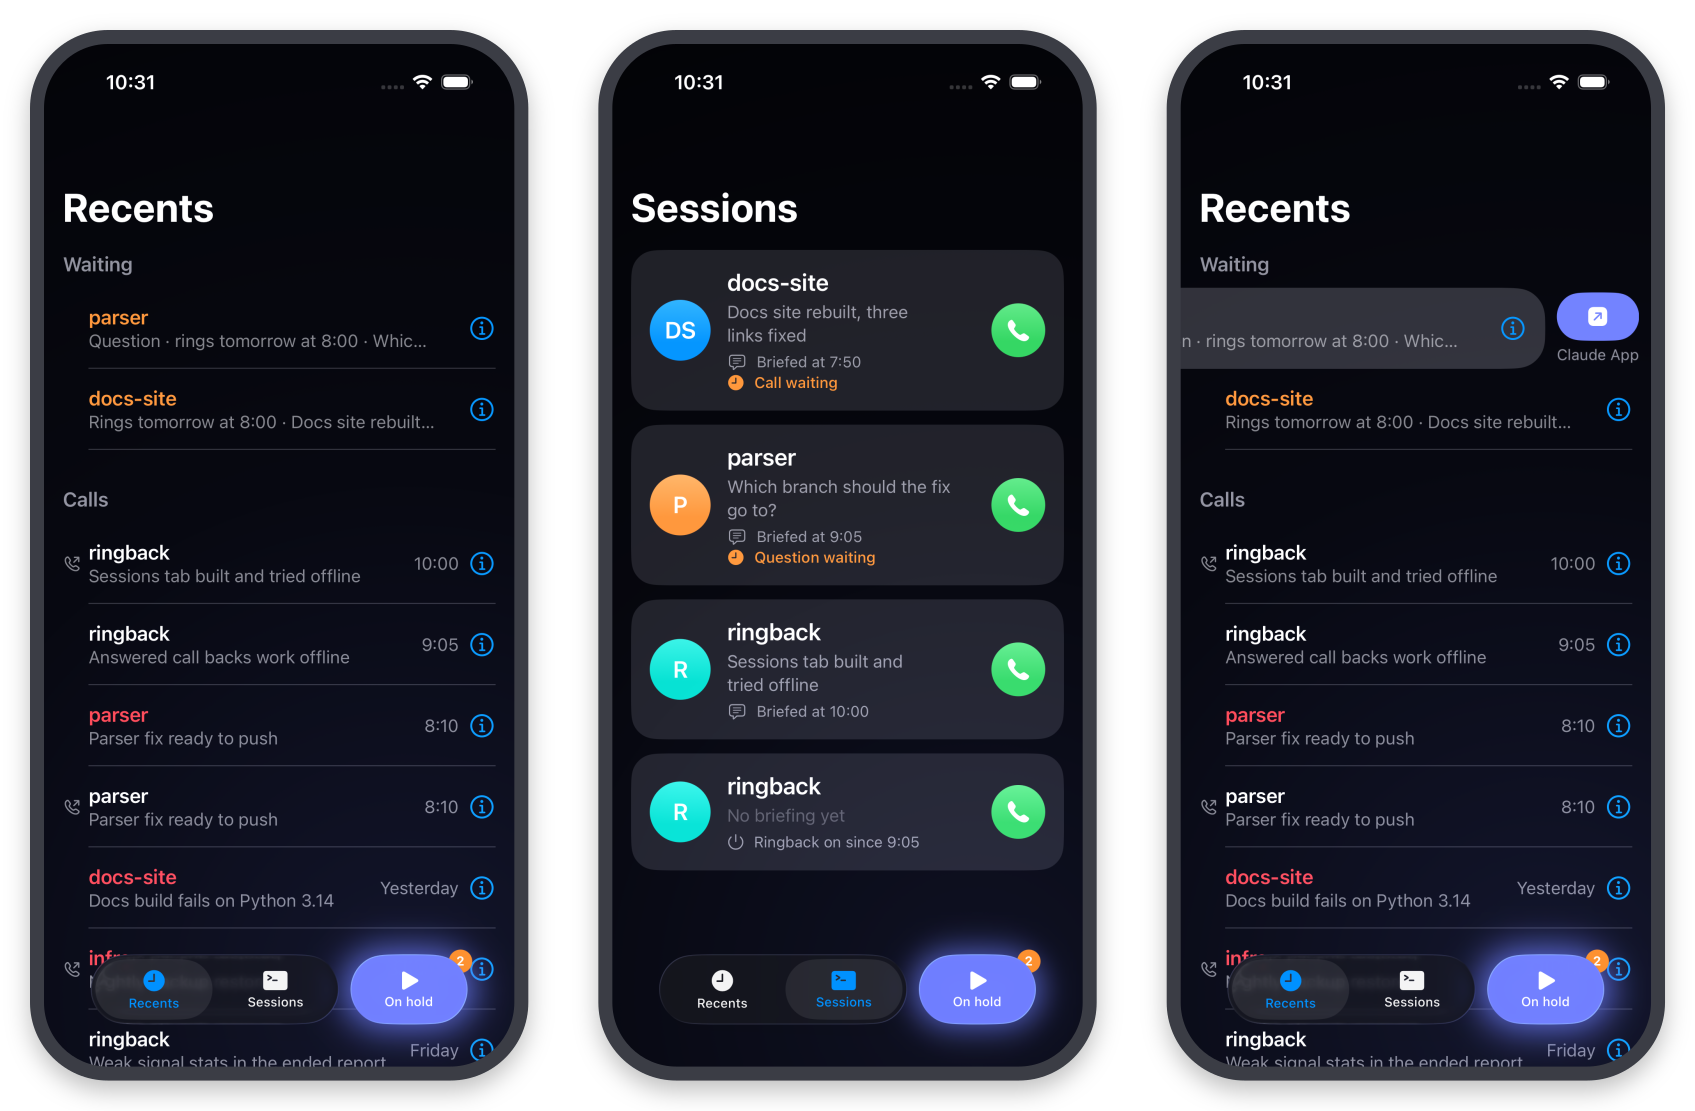
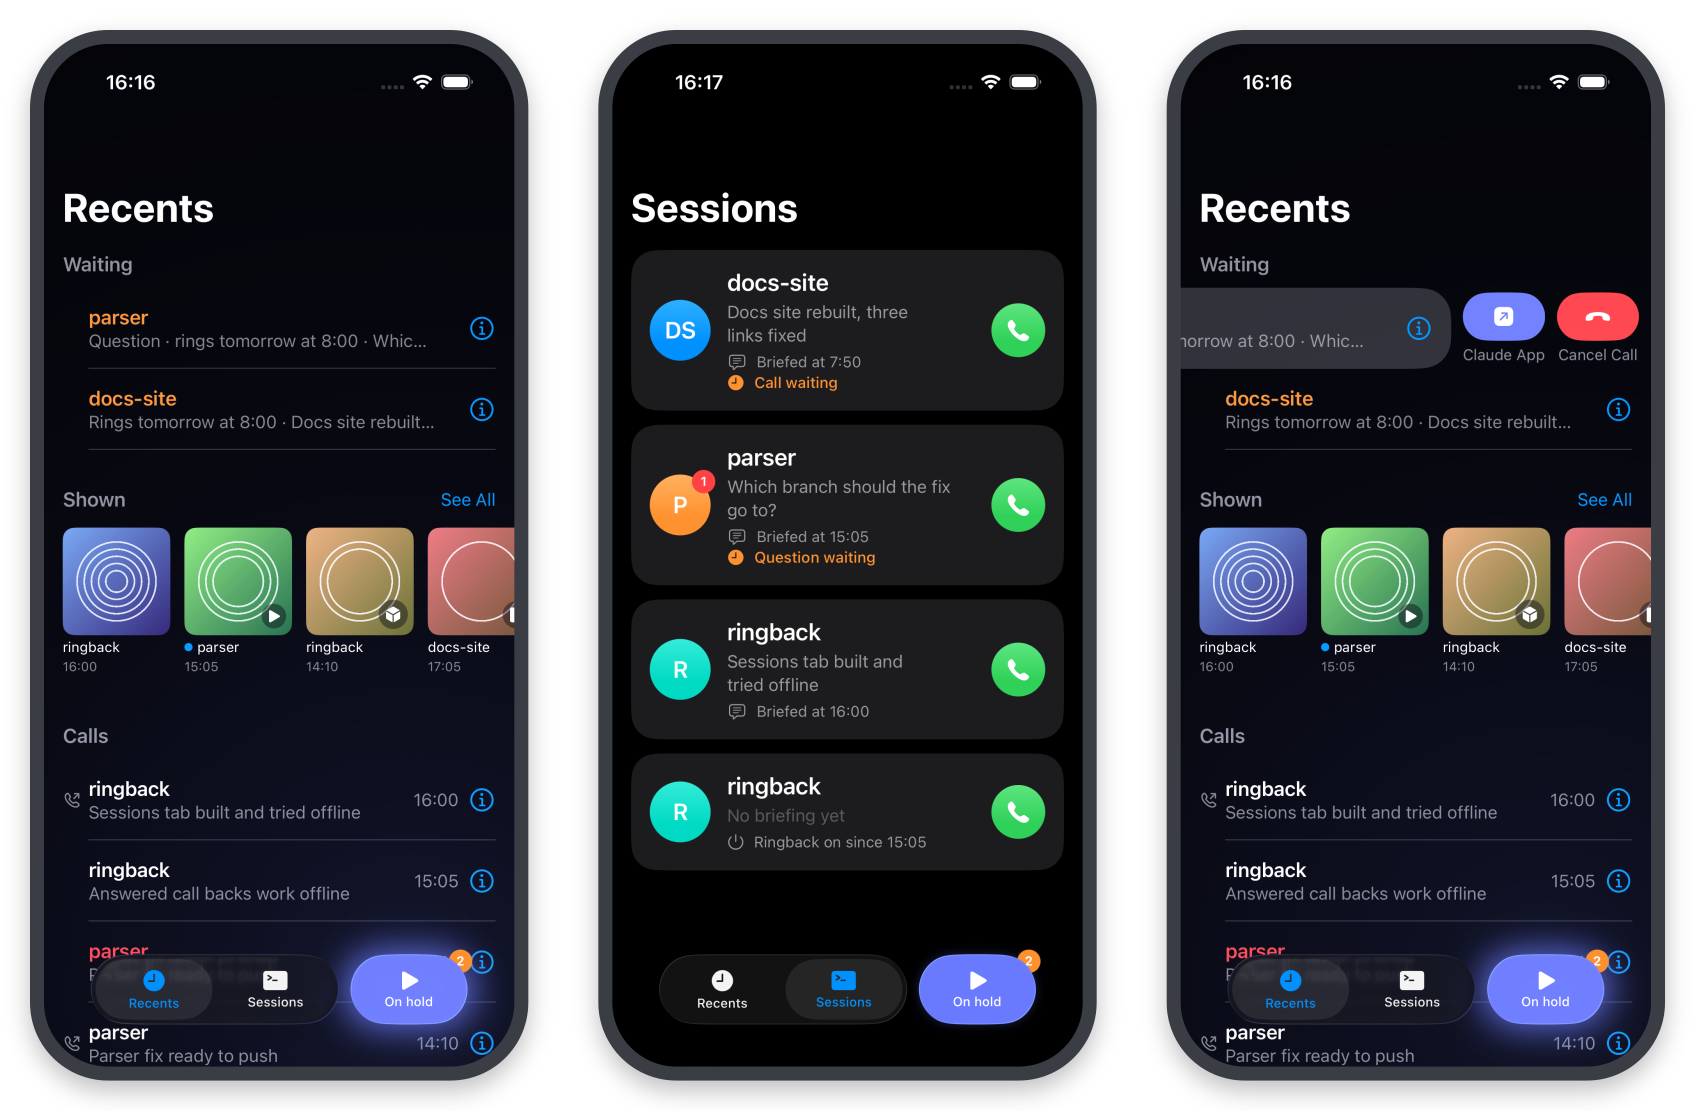
Docs and screenshots for what sessions show you
The README says what a session shows you, with new screenshots of Recents' Shown shelf and
Sessions' counts; the setup guide installs a renderer and lists the view check; the design
lists the renderer among the parts, ticks off showing you things, and leaves 3D models on
Linux as their own item.

Claude-Session: https://claude.ai/code/session_01MpCzCqJTRd81WpYM3Z1jEN

diff --git a/docs/design.md b/docs/design.md
@@ -62,11 +62,12 @@ no server of anyone else's in between, apart from Apple's push service.
 
 | Part | Runs on | Does |
 |---|---|---|
-| **app** (`app/`, Swift) | an iPhone on iOS 26 or later | rings through CallKit when a VoIP push comes; carries the call's audio to the hub (WebRTC, Opus), or with On-device voice hears and speaks the call itself; Recents, Sessions and the hold switch; its settings are in the Settings app |
-| **hub** (`hub/`, Go) | one always-on machine | the phone's endpoints; pushes through Apple (APNs); work hours, the hold and the calls that wait; the sessions you can call; each call's audio (WebRTC through Pion, Opus through libopus) and its timing; the portal |
+| **app** (`app/`, Swift) | an iPhone on iOS 26 or later | rings through CallKit when a VoIP push comes; carries the call's audio to the hub (WebRTC, Opus), or with On-device voice hears and speaks the call itself; Recents, Sessions and the hold switch; what sessions show you, with its notification extension, and a model's live view; its settings are in the Settings app |
+| **hub** (`hub/`, Go) | one always-on machine | the phone's endpoints; pushes through Apple (APNs); work hours, the hold and the calls that wait; the sessions you can call; each call's audio (WebRTC through Pion, Opus through libopus) and its timing; what sessions show you, kept a week, and a model's live view, relayed; the portal |
 | **speech node** (`speech/`, Go with sherpa-onnx) | a Linux machine with an NVIDIA GPU | hearing: Silero VAD v5, Smart Turn v3.2, Parakeet TDT 0.6B v2; speaking: Kokoro v1.0 with the `af_heart` voice |
-| **agent** (`agent/`, Go) | each Mac that runs sessions | the mods' socket; each call's state; the call's Haiku, and Opus on request, as `claude -p` on your Claude subscription; the call transcripts |
-| **mod** (`mod/`, TypeScript) | each Claude Code session, as a plugin | `/ringback`; has the session write its call briefing; brings what you say on a call to the session as a prompt; puts permissions and questions to the call |
+| **agent** (`agent/`, Go) | each Mac that runs sessions | the mods' socket; each call's state; the call's Haiku, and Opus on request, as `claude -p` on your Claude subscription; the call transcripts; sends what sessions show you to the hub, and streams a model's live view from its renderer |
+| **renderer** (`render/`, C++ and Swift) | beside the agent, optional | renders a 3D model a session shows you: its picture, and its live view as H.264; OpenUSD's Storm, or on a Mac without it, Apple's SceneKit |
+| **mod** (`mod/`, TypeScript) | each Claude Code session, as a plugin | `/ringback`; has the session write its call briefing; brings what you say on a call to the session as a prompt; puts permissions and questions to the call; the `show` tool |
 
 **Who dials whom.** The agent and the speech node each open one WebSocket to the hub, with a
 token from the hub's config, and keep it open. The phone makes requests to the hub and
@@ -74,8 +75,9 @@ connects the call's audio to it. The hub pushes to the phone through Apple. Noth
 Macs, the speech node or the phone, so only the hub needs an address the others can reach.
 
 The hub is built for macOS (`hub/build.sh`: one binary for Intel and Apple silicon, libopus
-linked in, needing nothing installed). Its code has nothing Mac-only in it, but it hasn't been
-built or run on Linux. The agent runs where the sessions run, on a Mac.
+linked in, needing nothing installed), and builds and passes its checks on Linux too, where
+`install` makes it a systemd service. The agent runs where the sessions run, on a Mac; it
+builds on Linux too, but has no service there yet.
 
 ### Who does what in a call
 
@@ -999,9 +1001,11 @@ host unable to read their calls.
   node linked, since only text crosses the network.
 - [ ] **A phone-network fallback** for where data is too weak: SIP trunks from a local
   operator, or an LTE modem with an ordinary SIM on the hub's machine, priced first.
-- [ ] **Showing you things:** a session sends you something to look at, as a notification from
-  it ("Showing you things"). Ready: images, PDFs and clips (tried on the phone), a model's
-  picture, rendered with OpenUSD's Storm (on Linux) or Apple's fallback (on a Mac), its live
-  view with Apple's fallback, and the app's Shown shelf (checked offline). Left: the live view
-  with OpenUSD's renderer, and an agent on Linux.
+- [x] **Showing you things** (tried on the phone): a session sends you an image, a PDF, a clip
+  or a 3D model, as a message from it ("Showing you things"); a model you turn, move, zoom
+  and play live, rendered on its own computer, with Apple's renderer on a Mac.
+- [ ] **3D models on Linux:** OpenUSD's renderer renders a model's picture on Linux (checked on
+  a workstation with an NVIDIA card) but can't stream its live view yet, which needs `serve`
+  in `ringback-render`, encoding H.264 there (NVENC); and the agent needs a service on Linux
+  (systemd, as the hub's and the speech node's), with the mod in its sessions.
 - [ ] **The call history in iCloud,** rather than on the phone only.

diff --git a/README.md b/README.md
@@ -53,16 +53,26 @@ no API key, and no server of ours in between.
 - **You can call back.** Every session with ringback on is one tap away, and so are your recent
   calls. Ask for a better model and Opus takes over the call.
 
+## What a session shows you
+
+A call can't show you a render. So a session can also send you something to look at: an
+image, a PDF, a short clip or a 3D model. It arrives as a message from the session, with a
+picture, and opens full screen in the app. A 3D model (USD, USDZ, GLB, STL) stays on the
+computer that runs the session, which renders it as you turn, move and zoom it on the phone,
+and plays its animation. Recents keeps what sessions showed you for a week, and each
+session's card in Sessions opens what it showed. It isn't messaging: what you want done about
+it, you say on a call or in the terminal.
+
 ## The app
 
 <p align="center">
   <picture>
     <source media="(prefers-color-scheme: dark)" srcset="docs/images/screens-dark.png">
-    <img src="docs/images/screens-light.png" width="820" alt="Three iPhone screens: Recents with two calls waiting while calls are on hold, Sessions with a card for each session, and a waiting question swiped to send it to the Claude app">
+    <img src="docs/images/screens-light.png" width="820" alt="Three iPhone screens: Recents with two calls waiting while calls are on hold and a shelf of what sessions showed, Sessions with a card for each session and a count of what it showed that's unopened, and a waiting call swiped to send its question to the Claude app or cancel it">
   </picture>
 </p>
 
-<p align="center"><sub>Recents, with calls on hold &nbsp;·&nbsp; Sessions, a tap to call each one &nbsp;·&nbsp; a waiting question, sent to the Claude app</sub></p>
+<p align="center"><sub>Recents, with calls on hold and what sessions showed you &nbsp;·&nbsp; Sessions, each with its call button &nbsp;·&nbsp; a waiting question, sent to the Claude app</sub></p>
 
 Built like the Phone app, with one switch of its own: the pill beside the tabs holds every call
 until you let them through, and breathes while it does. It's in Control Center too, and the
@@ -107,6 +117,8 @@ You need:
 - a Mac with Xcode, and Go, CMake, XcodeGen and pkg-config from Homebrew, to build the app, the
   hub and the agent; Go and a copy of this repository on each Mac that runs sessions;
 - an iPhone on iOS 26 or later, and a paid Apple Developer account, for VoIP pushes;
+- to show you 3D models, nothing more on a Mac: Apple's own renderer is the fallback, and
+  OpenUSD's, which opens more and renders better, is optional ([render/README.md](render/README.md));
 - a private network all of them reach, the phone too on mobile data: Nebula, with a lighthouse
   that relays, is the one it's tested on.
 
@@ -136,7 +148,9 @@ Ringback is a working prototype: everything below is built and passes its offlin
   call;
 - pairing the phone from the portal, from the app's banner;
 - a call that can't reach the hub ending by itself, with the app saying why;
-- the hub's portal, from the phone.
+- the hub's portal, from the phone;
+- a session showing you an image, a PDF, a clip and a 3D model, as messages from it, and
+  turning, moving and playing the model live, rendered on the Mac (on Wi-Fi).
 
 **Not yet tried on the phone:** work hours, the hold switch, its breathing light and the
 Lock Screen widget; calling a waiting call now, or cancelling it; calls ringing one at a time,
@@ -158,7 +172,8 @@ What each item means is under "Next" in [docs/design.md](docs/design.md).
 - [ ] A better On-device Voice: it works, but doesn't sound good enough yet (later)
 - [ ] On-device Voice on a weak signal (later)
 - [ ] A phone-network fallback
-- [ ] Showing you things: images and other things a call can't say
+- [x] Showing you things: images, PDFs, clips and 3D models a call can't say
+- [ ] 3D models on Linux: OpenUSD's live view, and an agent there
 - [ ] The call history in iCloud
 
 <details>

diff --git a/docs/setup.md b/docs/setup.md
@@ -292,6 +292,21 @@ work hours, the calls to call back, what sessions asked you and what waits for t
 call you're on when it restarts ends, and its session is told so. (Tried offline, not yet on
 the phone.)
 
+**To show you 3D models** (optional; images, PDFs and clips need nothing more), the agent needs
+a renderer beside it or on its `PATH` (`render/README.md`). On a Mac, Apple's fallback builds
+with Xcode alone; OpenUSD's renderer, which opens glTF and GLB too and renders better, builds
+against OpenUSD from conda-forge (with pixi), or on Linux the system's:
+
+```sh
+render/build.sh apple && ln -sf "$PWD/render/build/ringback-render-apple" ~/.local/bin/
+render/build.sh       && ln -sf "$PWD/render/build/ringback-render" ~/.local/bin/   # or OpenUSD's
+~/.local/bin/ringback-agent install   # restarts it, so it finds the renderer
+```
+
+Without either, a session that shows you a model is told this Mac can't render 3D models, and
+what it lacks. The agent remembers where each model it showed is, for its live view, in
+`shown-models.json` beside its socket.
+
 ## 6. The ringback mod (every Mac that runs sessions)
 
 The mod is how a session calls you. To load it in every session, add it to
@@ -346,6 +361,9 @@ xcrun devicectl device install app --device <UDID> app/build/Build/Products/Debu
 - If Xcode's sign-in to your Apple account has expired, signing falls back to a profile
   without push, and the build fails on the push entitlement. Sign in again in Xcode →
   Settings → Accounts.
+- The app has a notification service extension, which fetches what a session shows you, and
+  the Communication Notifications capability, so it shows as a message from the session.
+  Automatic signing adds both to your App IDs the first time, with Xcode signed in.
 
 Open the app and allow the microphone and notifications. Its settings are in the Settings
 app, under **Settings → Apps → Ringback** (the app's banner, "Set up Ringback", has a button
@@ -437,6 +455,11 @@ These need uv (`brew install uv`); they run in the tools' Python environment
       (cd hub && go build -o build/ringback-hub .) && uv run --project tools tools/hub-check/hub_check.py
 
 - **The speech node,** on the node (step 4): `speech/check.sh` (about 2.5 min).
+- **A model's live view,** through a hub, an agent and the renderer started on this Mac, with
+  a stand-in phone that decodes its video (about 20 s; build the three first, as its README
+  says):
+
+      uv run --project tools tools/view-check/view_check.py
 
 ## 10. A public hub (prepared, not tried)
 
